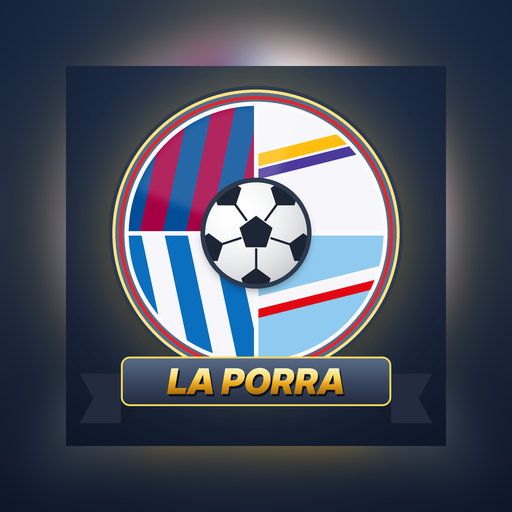
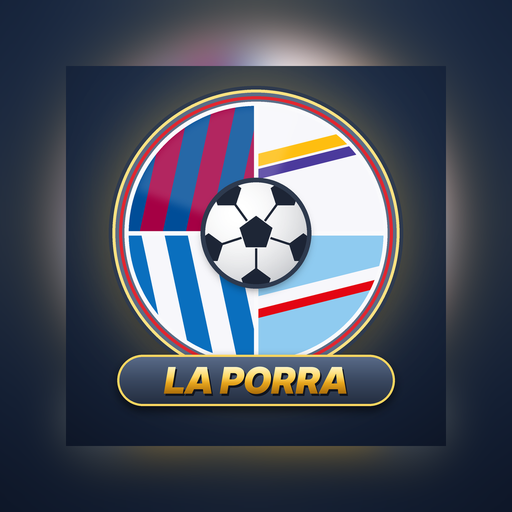
Icono: texto en óvalo en lugar de cinta
Claude-Session: https://claude.ai/code/session_01WnahYQ44zuL5MJNsFyzTZ6

Changed region(s): [[0.2188, 0.6875, 0.7812, 0.8125]]

diff --git a/sw.js b/sw.js
@@ -1,5 +1,5 @@
 // La Porra · service worker: app instalable, funciona offline la portada y recibe avisos
-const CACHE = "porra-v12";
+const CACHE = "porra-v13";
 const SHELL = ["./", "index.html", "manifest.json", "icons/icon-192.png", "icons/icon-512.png", "icons/apple-touch-icon.png", "icons/logo.png", "img/cracks.webp", "img/cracks.jpg"];
 
 self.addEventListener("install", (e) => {

diff --git a/tools/icono2.py b/tools/icono2.py
@@ -91,17 +91,16 @@ def render(S=1024, tema="oro"):
     img.paste(ball_shaded, (0, 0), bm)
     # --- cinta estilizada azul grisácea con letras doradas
     d = ImageDraw.Draw(img)
-    by = int(W * .765); bh = int(W * .13); bx0 = int(W * .1); bx1 = W - bx0; fold = W * .045
+    by = int(W * .76); bh = int(W * .135); bx0 = int(W * .135); bx1 = W - bx0; fold = 0
+    # sombra del óvalo
+    so = Image.new("L", (W, W), 0); ImageDraw.Draw(so).rounded_rectangle([bx0, by + W*.012, bx1, by + bh + W*.012], radius=bh // 2, fill=150)
+    img.paste((0, 0, 0, 255), (0, 0), so.filter(ImageFilter.GaussianBlur(W * .012)))
     slate, slate_d = (58, 72, 96), (34, 44, 62)
-    for s in (1, -1):  # colas con muesca
-        xa = bx0 if s == 1 else bx1
-        d.polygon([(xa - fold*1.4*s, by + fold), (xa + fold*s, by + fold), (xa + fold*s, by + bh + fold), (xa - fold*1.4*s, by + bh + fold), (xa - fold*.6*s, by + bh/2 + fold)], fill=slate_d)
-        d.polygon([(xa + fold*s, by + bh), (xa + fold*s, by + bh + fold), (xa + fold*2*s, by + bh)], fill=(22, 28, 40))
     rb = grad_img(W, [(0, (92, 110, 140)), (.5, slate), (1, slate_d)], "y", by / W, (by + bh) / W)
-    rm = Image.new("L", (W, W), 0); ImageDraw.Draw(rm).rounded_rectangle([bx0 + fold, by, bx1 - fold, by + bh], radius=int(bh*.18), fill=255)
+    rm = Image.new("L", (W, W), 0); ImageDraw.Draw(rm).rounded_rectangle([bx0 + fold, by, bx1 - fold, by + bh], radius=bh // 2, fill=255)
     img.paste(rb, (0, 0), rm)
     d = ImageDraw.Draw(img)
-    d.rounded_rectangle([bx0 + fold, by, bx1 - fold, by + bh], radius=int(bh*.18), outline=(255, 214, 96), width=int(W*.005))
+    d.rounded_rectangle([bx0 + fold, by, bx1 - fold, by + bh], radius=bh // 2, outline=(255, 214, 96), width=int(W*.006))
     f = ImageFont.truetype(F_BLACK, int(bh * .72)); txt = "LA PORRA"
     tw = d.textlength(txt, font=f); bb = d.textbbox((0, 0), txt, font=f)
     tx = (W - tw) / 2; ty = by + (bh - (bb[3] - bb[1])) / 2 - bb[1]
